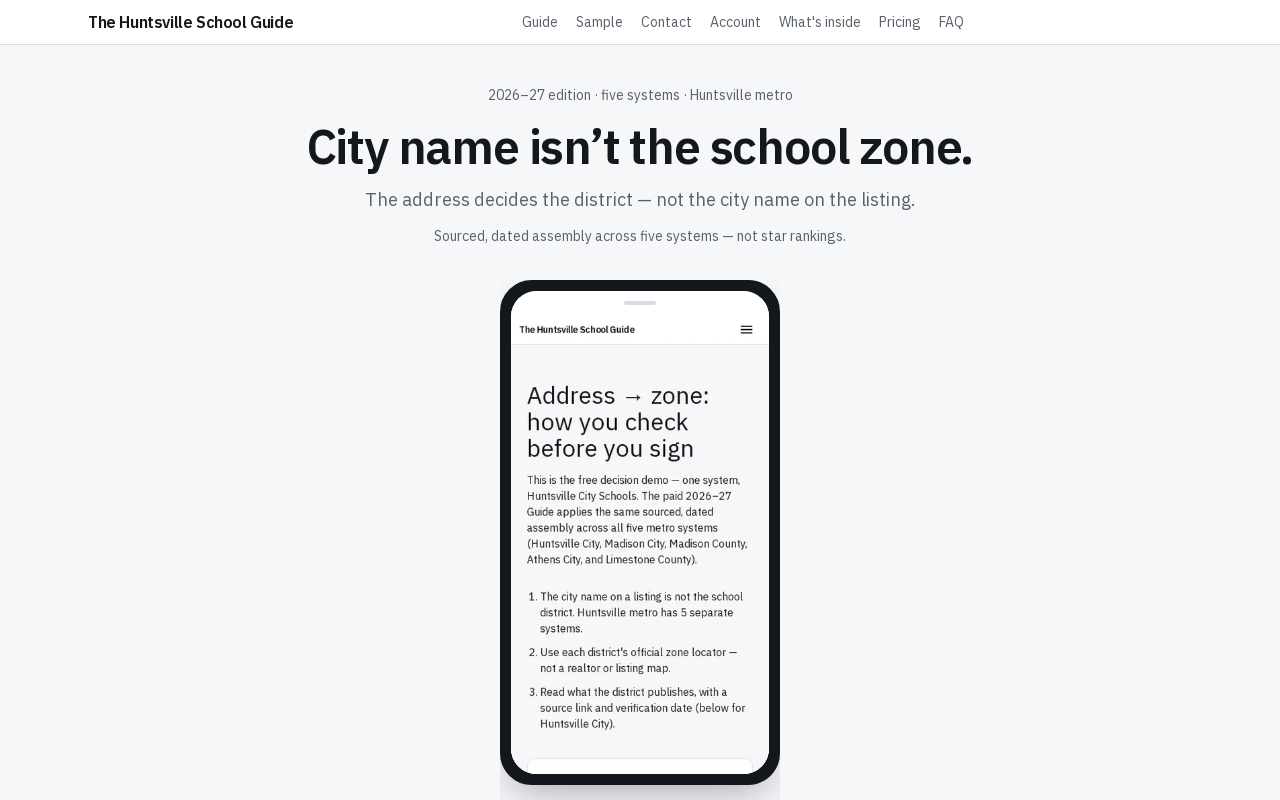
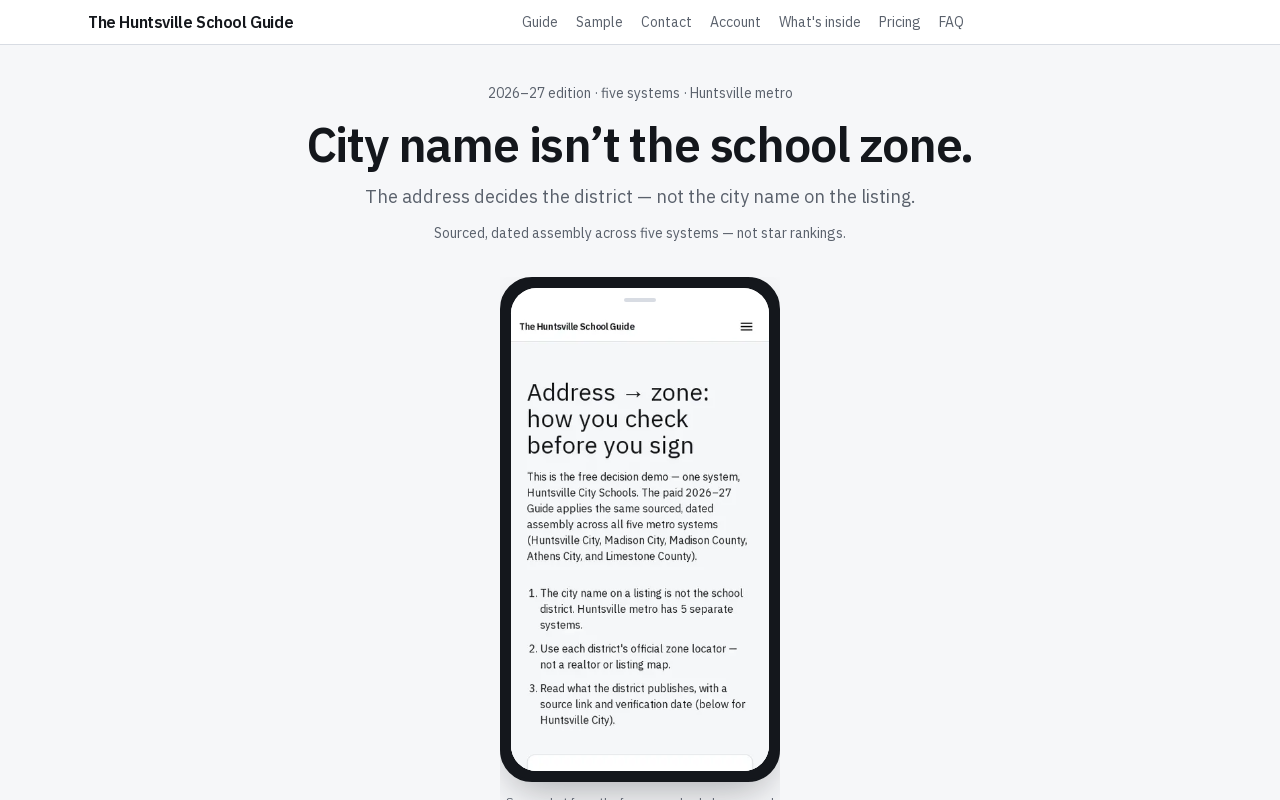
Tighten mobile hero and sample fold for fluidity gate
Compress ≤767 homepage: buy cluster before smaller phone; move proof beats
below sentinel. Shorten /sample intro so HCS official-check card with
verified citation lands in first 667px. Re-capture homepage viewport proof
PNGs (revenue-fold + hormozi) at scrollY=0.

diff --git a/app/sample/page.tsx b/app/sample/page.tsx
@@ -5,11 +5,7 @@ import { PageShell } from "@/components/page-shell";
 import { SampleOptInForm } from "@/components/sample-opt-in-form";
 import { ViewContentPixel } from "@/components/view-content-pixel";
 import { SourcedFact } from "@/components/sourced-fact";
-import {
-  FIVE_SYSTEM_SLUGS,
-  fieldLabel,
-  huntsvilleCityZoneDemoFacts,
-} from "@/lib/seed-facts";
+import { fieldLabel, huntsvilleCityZoneDemoFacts } from "@/lib/seed-facts";
 import { edition, hero } from "@/lib/site";
 
 export const dynamic = "force-static";
@@ -20,9 +16,6 @@ export const metadata: Metadata = {
     "Free address-to-zone decision demo for Huntsville City Schools: official locator steps with sourced, dated citations. The paid Guide covers all five Huntsville metro school systems.",
 };
 
-const FIVE_SYSTEM_LABELS =
-  "Huntsville City, Madison City, Madison County, Athens City, and Limestone County";
-
 export default function SamplePage() {
   const facts = huntsvilleCityZoneDemoFacts();
   const [leadFact, ...moreFacts] = facts;
@@ -30,56 +23,36 @@ export default function SamplePage() {
   return (
     <PageShell>
       <ViewContentPixel />
-      <p className="text-xs uppercase tracking-[0.14em] text-muted">
+      <p className="text-[10px] uppercase tracking-[0.14em] text-muted sm:text-xs">
         Free decision demo
       </p>
-      <h1 className="mt-2 font-serif text-4xl text-ink">
-        Address → zone: how you check before you sign
+      <h1 className="mt-1 font-serif text-[1.35rem] leading-tight text-ink sm:mt-2 sm:text-4xl">
+        Address → zone: check before you sign
       </h1>
-      <p className="mt-4 max-w-xl text-muted">
-        This is the free decision demo — one system, Huntsville City Schools. The
-        paid {edition} Guide applies the same sourced, dated assembly across all
-        five metro systems ({FIVE_SYSTEM_LABELS}).
+      <p className="mt-2 max-w-xl text-sm text-muted sm:mt-4 sm:text-base">
+        Huntsville City Schools worked example. The paid {edition} Guide covers
+        all five metro systems the same way.
       </p>
-
-      <ol className="mt-8 max-w-xl list-decimal space-y-3 pl-5 text-ink">
-        <li>
-          The city name on a listing is not the school district. Huntsville metro
-          has {FIVE_SYSTEM_SLUGS.length} separate systems.
-        </li>
-        <li>
-          Use each district&apos;s official zone locator — not a realtor or
-          listing map.
-        </li>
-        <li>
-          Read what the district publishes, with a source link and verification
-          date (below for Huntsville City).
-        </li>
-      </ol>
 
       <section
         aria-labelledby="hcs-zone-demo-heading"
-        className="mt-10 max-w-xl rounded-lg border border-border bg-surface px-5 py-6"
+        className="mt-3 max-w-xl rounded-lg border border-border bg-surface px-4 py-4 sm:mt-6 sm:px-5 sm:py-6"
       >
         <h2
           id="hcs-zone-demo-heading"
-          className="font-sans text-xl font-semibold text-ink"
+          className="font-sans text-lg font-semibold text-ink sm:text-xl"
         >
           Huntsville City Schools — official check
         </h2>
-        <p className="mt-2 text-sm text-muted">
-          Worked example for one address. Other systems use their own locators in
-          the paid Guide.
-        </p>
         {leadFact ? (
-          <p className="mt-4 text-sm leading-relaxed text-ink">
+          <p className="mt-3 text-sm leading-relaxed text-ink">
             <span className="font-medium text-ink">
               {fieldLabel(leadFact.field)}:{" "}
             </span>
             <SourcedFact fact={leadFact} />
           </p>
         ) : null}
-        <dl className="mt-6 space-y-5">
+        <dl className="mt-4 space-y-4 sm:mt-6 sm:space-y-5">
           {moreFacts.map((fact) => (
             <div key={fact.field}>
               <dt className="text-sm text-muted">{fieldLabel(fact.field)}</dt>
@@ -91,9 +64,16 @@ export default function SamplePage() {
         </dl>
       </section>
 
-      <p className="mt-10 max-w-xl text-muted">
-        Want the same decision workflow for Madison City, Madison County, Athens
-        City, and Limestone County?{" "}
+      <ol className="mt-4 max-w-xl list-decimal space-y-2 pl-5 text-sm text-ink sm:mt-8 sm:space-y-3 sm:text-base">
+        <li>
+          Listing city ≠ school district — five separate systems in this metro.
+        </li>
+        <li>Use each district&apos;s official zone locator, not a listing map.</li>
+        <li>Each line in the card links to its source and verification date.</li>
+      </ol>
+
+      <p className="mt-8 max-w-xl text-muted sm:mt-10">
+        Want Madison City, Madison County, Athens City, and Limestone County too?{" "}
         <Link href="/#pricing" className="text-action hover:underline">
           See the Guide on the homepage
         </Link>

diff --git a/components/sales-page.tsx b/components/sales-page.tsx
@@ -30,7 +30,7 @@ function HeroProofBeatsBelowFold() {
 
 export function SalesPage() {
   return (
-    <div className="mx-auto w-full min-w-0 max-w-4xl overflow-x-clip px-4 pb-28 pt-3 sm:px-6 sm:pt-10 sm:pb-24 max-md:pb-28">
+    <div className="mx-auto w-full min-w-0 max-w-4xl overflow-x-clip px-4 pb-28 pt-1 sm:px-6 sm:pt-10 sm:pb-24 max-md:pb-28">
       <Suspense fallback={null}>
         <CheckoutNotice />
       </Suspense>
@@ -39,28 +39,28 @@ export function SalesPage() {
         aria-labelledby="hero-heading"
         className="mx-auto flex w-full min-w-0 max-w-2xl flex-col items-center text-center"
       >
-        <p className="text-xs text-text-muted sm:text-sm">
+        <p className="text-[10px] leading-tight text-text-muted max-md:tracking-tight sm:text-sm">
           {edition} edition · five systems · Huntsville metro
         </p>
         <h1
           id="hero-heading"
-          className="mt-2 font-sans text-[28px] font-bold leading-[1.08] tracking-tight text-text max-md:max-w-[20rem] sm:mt-4 sm:max-w-none sm:text-[44px] sm:leading-[1.06] lg:text-[48px]"
+          className="mt-1 font-sans text-[1.375rem] font-bold leading-[1.12] tracking-tight text-text max-md:max-w-[18rem] sm:mt-4 sm:max-w-none sm:text-[44px] sm:leading-[1.06] lg:text-[48px]"
         >
           {hero.headline}
         </h1>
         <p
-          className="mt-2 w-full max-w-xl text-balance text-[14px] font-medium leading-snug text-text-muted sm:mt-4 sm:text-lg sm:leading-snug"
+          className="mt-1 w-full max-w-xl text-balance text-[13px] font-medium leading-snug text-text-muted sm:mt-4 sm:text-lg sm:leading-snug"
         >
           {hero.proofLineAboveFold}
         </p>
         <p
-          className="mt-1.5 w-full max-w-xl text-balance text-[12px] leading-snug text-text-muted sm:mt-3 sm:text-sm sm:leading-relaxed"
+          className="mt-1 w-full max-w-xl text-balance text-[11px] leading-snug text-text-muted sm:mt-3 sm:text-sm sm:leading-relaxed"
         >
           {hero.mechanismFold}
         </p>
         <div
           id="hero-buy-cluster"
-          className="order-2 mt-3 flex w-full max-w-sm flex-col items-center gap-2 md:order-4 sm:mt-7 sm:gap-3"
+          className="order-2 mt-2 flex w-full max-w-sm flex-col items-center gap-1 md:order-4 sm:mt-7 sm:gap-3"
         >
           <CheckoutForm
             tierId="79"
@@ -69,26 +69,27 @@ export function SalesPage() {
             className="w-full"
           />
           <p
-            className="text-center text-[11px] leading-snug text-text-muted sm:text-xs"
+            className="text-center text-[10px] leading-snug text-text-muted sm:text-xs"
             aria-label="Purchase guarantees"
           >
             {hero.foldGuaranteeChips.join(" · ")}
           </p>
         </div>
-        <p className="order-3 mt-2 max-w-sm text-center md:order-5 sm:mt-4">
+        <p className="order-3 mt-1 max-w-sm text-center md:order-5 sm:mt-4">
           <Link
             href="/sample"
-            className="text-[13px] font-medium text-action underline-offset-4 hover:underline sm:text-sm"
+            id="hero-sample-demo-link"
+            className="text-[12px] font-medium text-action underline-offset-4 hover:underline sm:text-sm"
           >
             {hero.sampleDemoCue}
           </Link>
         </p>
-        <HeroPhonePreview className="order-4 mt-3 max-md:max-w-[9.75rem] md:order-3 sm:mt-8" />
-        <div className="order-5 w-full md:order-6">
-          <HeroProofBeatsBelowFold />
-        </div>
-        <div id="hero-fold-sentinel" className="h-px w-full" aria-hidden="true" />
+        <HeroPhonePreview className="order-4 mt-2 max-md:max-w-[8.25rem] md:order-3 sm:mt-8" />
+        <div id="hero-fold-sentinel" className="order-5 h-px w-full md:order-6" aria-hidden="true" />
       </section>
+      <div className="mx-auto mt-4 w-full max-w-2xl max-md:mt-3 sm:mt-6">
+        <HeroProofBeatsBelowFold />
+      </div>
 
       <section aria-labelledby="problem-heading" className="mt-16 sm:mt-20">
         <h2 id="problem-heading" className="font-sans text-2xl font-semibold text-text">

diff --git a/components/hero-phone-preview.tsx b/components/hero-phone-preview.tsx
@@ -8,12 +8,12 @@ export function HeroPhonePreview({ className }: { className?: string }) {
       className={`mx-auto w-full max-w-[10.5rem] overflow-hidden sm:max-w-[17.5rem] ${className ?? ""}`}
       aria-hidden="true"
     >
-      <div className="rounded-[2rem] border-[3px] border-text bg-text p-2 shadow-[0_18px_40px_-12px_rgba(20,23,28,0.35)]">
-        <div className="overflow-hidden rounded-[1.6rem] bg-page">
-          <div className="flex items-center justify-center gap-1.5 bg-surface px-4 py-2.5">
-            <span className="h-1 w-8 rounded-full bg-border" />
+      <div className="rounded-[1.6rem] border-2 border-text bg-text p-1.5 shadow-[0_12px_28px_-10px_rgba(20,23,28,0.35)] max-md:rounded-[1.35rem] sm:rounded-[2rem] sm:border-[3px] sm:p-2 sm:shadow-[0_18px_40px_-12px_rgba(20,23,28,0.35)]">
+        <div className="overflow-hidden rounded-[1.25rem] bg-page sm:rounded-[1.6rem]">
+          <div className="flex items-center justify-center gap-1.5 bg-surface px-3 py-1.5 max-md:py-1 sm:px-4 sm:py-2.5">
+            <span className="h-1 w-6 rounded-full bg-border sm:w-8" />
           </div>
-          <div className="relative aspect-[9/16] w-full max-h-[11.5rem] max-w-full overflow-hidden bg-surface max-md:max-h-[9.75rem] sm:max-h-none">
+          <div className="relative aspect-[9/16] w-full max-h-[7.25rem] max-w-full overflow-hidden bg-surface max-md:max-h-[7.25rem] sm:max-h-none">
             <Image
               src={SAMPLE_SCREENSHOT}
               alt=""
@@ -25,7 +25,7 @@ export function HeroPhonePreview({ className }: { className?: string }) {
           </div>
         </div>
       </div>
-      <p className="mt-2 text-center text-[10px] text-text-muted sm:mt-3 sm:text-xs">
+      <p className="mt-2 hidden text-center text-[10px] text-text-muted sm:mt-3 sm:block sm:text-xs">
         Screenshot from the free zone-check demo — real product UI.
       </p>
     </div>

diff --git a/lib/sales-honesty.test.ts b/lib/sales-honesty.test.ts
@@ -295,6 +295,7 @@ describe("first-screen buy", () => {
     assert.match(samplePageSource, /huntsvilleCityZoneDemoFacts/);
     assert.match(samplePageSource, /official check|official locator/i);
     assert.equal(samplePageSource.includes("superintendent"), false);
+    assert.match(samplePageSource, /hcs-zone-demo-heading/);
     assert.match(samplePageSource, /five metro systems|five separate systems/i);
     assert.match(samplePageSource, /SampleOptInForm/);
     assert.match(samplePageSource, /tierId="79"/);
